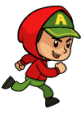
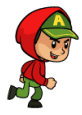
Implement animated movement for the Hero class

diff --git a/src/hero.py b/src/hero.py
@@ -9,24 +9,77 @@ class Hero:
         self.screen = game.screen
         self.screen_rect = game.screen.get_rect()
         # Load hero image and make a rectangular out of it
-        self.image = pygame.image.load('img/hero/hero_stands_r1.png')
-        self.rect = self.image.get_rect()
-        # Every new hero starts from the specified coordinates
+        self.run_right = [pygame.image.load(f'img/hero/hero_runs_r{i}.png') for i in range(6)]
+        self.run_left = [pygame.image.load(f'img/hero/hero_runs_l{i}.png') for i in range(6)]
 
+        #print(len(self.run_right))
+        #print(len(self.run_left))
+        # Load hero image and make a rectangular out of it
+        self.image = (pygame.image.load('img/hero/hero_stands_r1.png'), 'r0')
+        self.rect = self.image[0].get_rect()
+
+        # Every new hero starts from the specified coordinates
         self.rect.midbottom = (100, 200)
+
+        self.image_update_counter = 0
 
         # Flag of movement
         self.moving_right = False
         self.moving_left = False
+        self.stop_moving_right = False
+        self.stop_moving_left = False
+
+    def _update_image(self):
+
+        # update image for running right
+        if self.moving_right:
+            if self.image[1] == 'r0':
+                self.image = (self.run_right[1], 'r1')
+            elif self.image[1] == 'r1':
+                self.image = (self.run_right[2], 'r2')
+            elif self.image[1] == 'r2':
+                self.image = (self.run_right[3], 'r3')
+            elif self.image[1] == 'r3':
+                self.image = (self.run_right[4], 'r4')
+            elif self.image[1] == 'r4':
+                self.image = (self.run_right[5], 'r5')
+            else:
+                self.image = (self.run_right[0], 'r0')
+
+        # update image for running left
+        elif self.moving_left:
+            if self.image[1] == 'l0':
+                self.image = (self.run_left[1], 'l1')
+            elif self.image[1] == 'l1':
+                self.image = (self.run_left[2], 'l2')
+            elif self.image[1] == 'l2':
+                self.image = (self.run_left[3], 'l3')
+            elif self.image[1] == 'l3':
+                self.image = (self.run_left[4], 'l4')
+            elif self.image[1] == 'l4':
+                self.image = (self.run_left[5], 'l5')
+            else:
+                self.image = (self.run_left[0], 'l0')
+        elif self.stop_moving_right:
+            self.image = (pygame.image.load('img/hero/hero_stands_r1.png'), 'r0')
+            self.stop_moving_right = False
+        elif self.stop_moving_left:
+            self.image = (pygame.image.load('img/hero/hero_stands_l1.png'), 'l0')
+            self.stop_moving_left = False
 
     def update(self):
         """Update hero's position"""
         if self.moving_right:
-            self.rect.x += 1
+            self.rect.x += 3
+            self.image_update_counter = (self.image_update_counter + 1) % 8
         if self.moving_left:
-            self.rect.x -= 1
+            self.rect.x -= 3
+            self.image_update_counter = (self.image_update_counter + 1) % 8
+        if self.image_update_counter == 7 or self.stop_moving_right or self.stop_moving_left:
+            self._update_image()
 
     def blitme(self):
         """Draw hero in the current position"""
+
         self.update()
-        self.screen.blit(self.image, self.rect)
+        self.screen.blit(self.image[0], self.rect)

diff --git a/src/spiellern.py b/src/spiellern.py
@@ -1,5 +1,6 @@
 # TODO: Add classes: Cloud, TaskBoard, Plank, LearningData
-# TODO: Update classes Settings, Hero
+# TODO: Refactor classes: Hero
+# TODO: Update Settings
 # TODO: Add statistics
 
 import pygame
@@ -19,7 +20,8 @@ class Spiellern:
         self.settings = Settings()
         self.screen = pygame.display.set_mode((self.settings.screen_width, self.settings.screen_height))
         self.hero = Hero(self)
-        pygame.display.set_caption("Spiellern")
+        pygame.display.set_caption(self.settings.caption)
+        self.clock = pygame.time.Clock()
 
     def run_game(self):
         """Start main game loop"""
@@ -31,6 +33,7 @@ class Spiellern:
             # Displaying last drawn screen
             update_screen(self)
             pygame.display.flip()
+            self.clock.tick(100)
 
     def _check_events(self):
         """Checking mouse/keyboard events"""
@@ -38,18 +41,24 @@ class Spiellern:
         for event in pygame.event.get():
             if event.type == pygame.QUIT:
                 sys.exit()
+
             elif event.type == pygame.KEYDOWN:
                 if event.key == pygame.K_RIGHT:
                     # Move hero to the right
                     self.hero.moving_right = True
                 elif event.key == pygame.K_LEFT:
-                    # Move hero to the right
+                    # Move hero to the left
                     self.hero.moving_left = True
+
             elif event.type == pygame.KEYUP:
                 if event.key == pygame.K_RIGHT:
+                    # stop moving right
                     self.hero.moving_right = False
+                    self.hero.stop_moving_right = True
                 elif event.key == pygame.K_LEFT:
+                    # stop moving left
                     self.hero.moving_left = False
+                    self.hero.stop_moving_left = True
 
 
 if __name__ == '__main__':

diff --git a/src/settings.py b/src/settings.py
@@ -9,3 +9,4 @@ class Settings:
         self.screen_width = 1200
         self.screen_height = 800
         self.bg_color = THECOLORS['aquamarine']
+        self.caption = "Spiellern"
